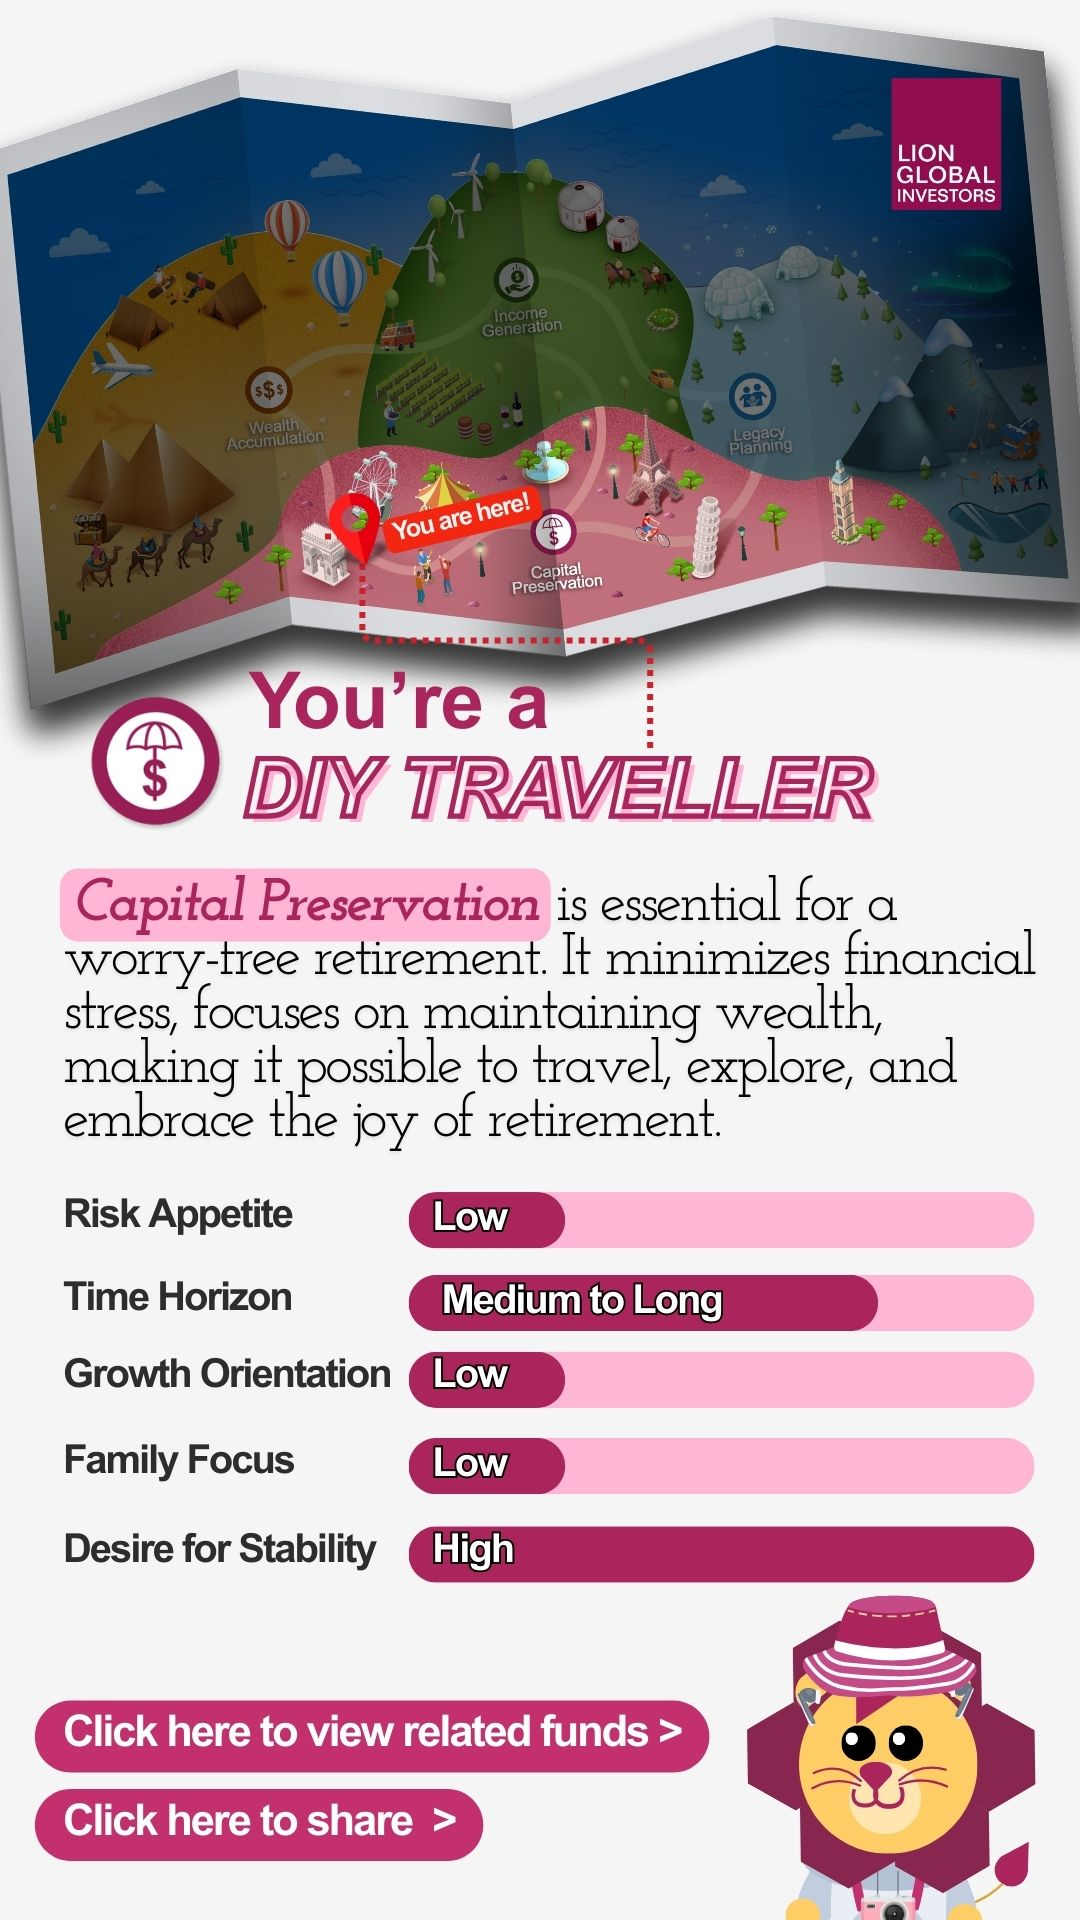
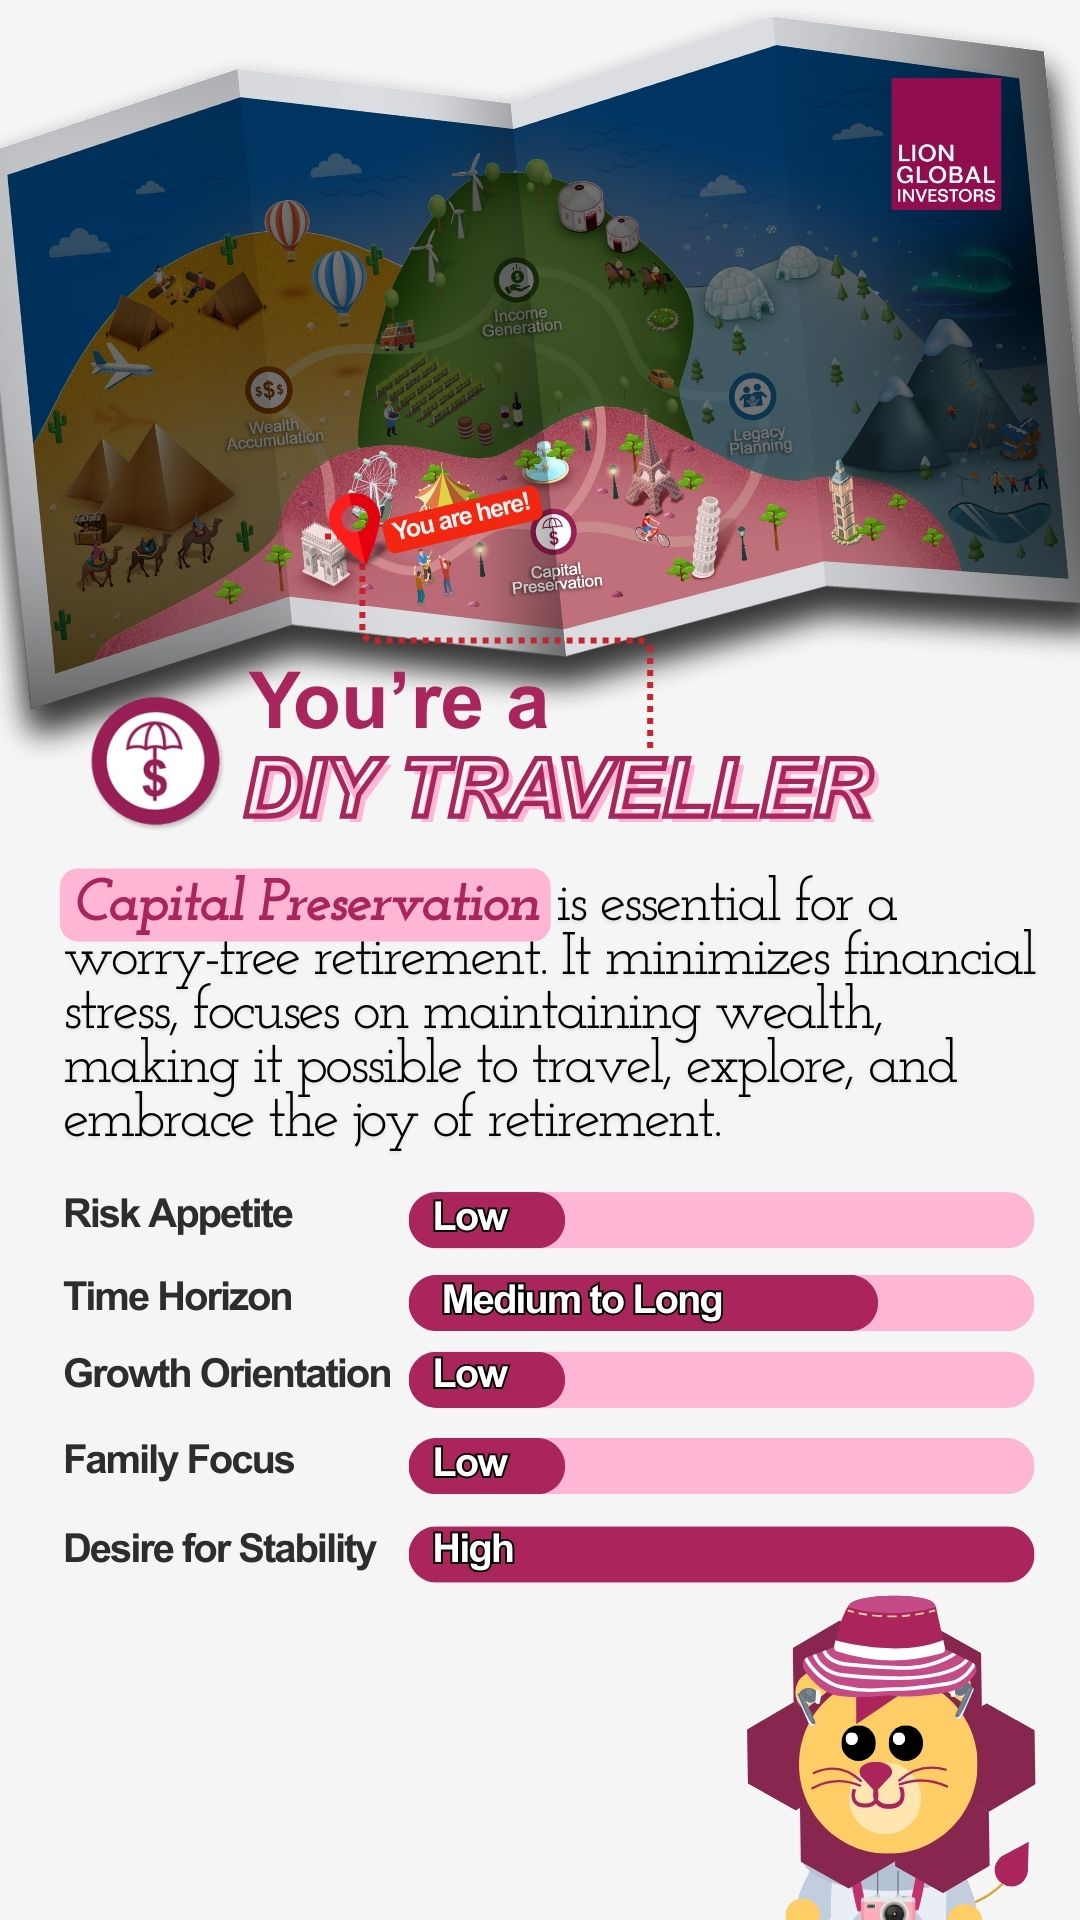
update results pages

Changed region(s): [[0.0306, 0.875, 0.6722, 0.9688]]

diff --git a/style.css b/style.css
@@ -1228,19 +1228,19 @@ footer {
     .result-button {
         bottom: 5vw;
         left: 5.5vw;
-        width: 205px;
-        height: 30px;
         font-size: 20px;
-        padding: 4px 6.5px;
+        padding: 1.5px 3px;
+        /* width: 160px;
+        height: 25px; */
     }
 
     .fundCentre-button {
         bottom: 12vw;
         left: 5.5vw;
-        width: 316px;
-        height: 30px;
         font-size: 20px;
-        padding: 4px 6.5px;
+        padding: 1.5px 3px;
+        /* width: 160px;
+        height: 25px; */
     }
 }
 
